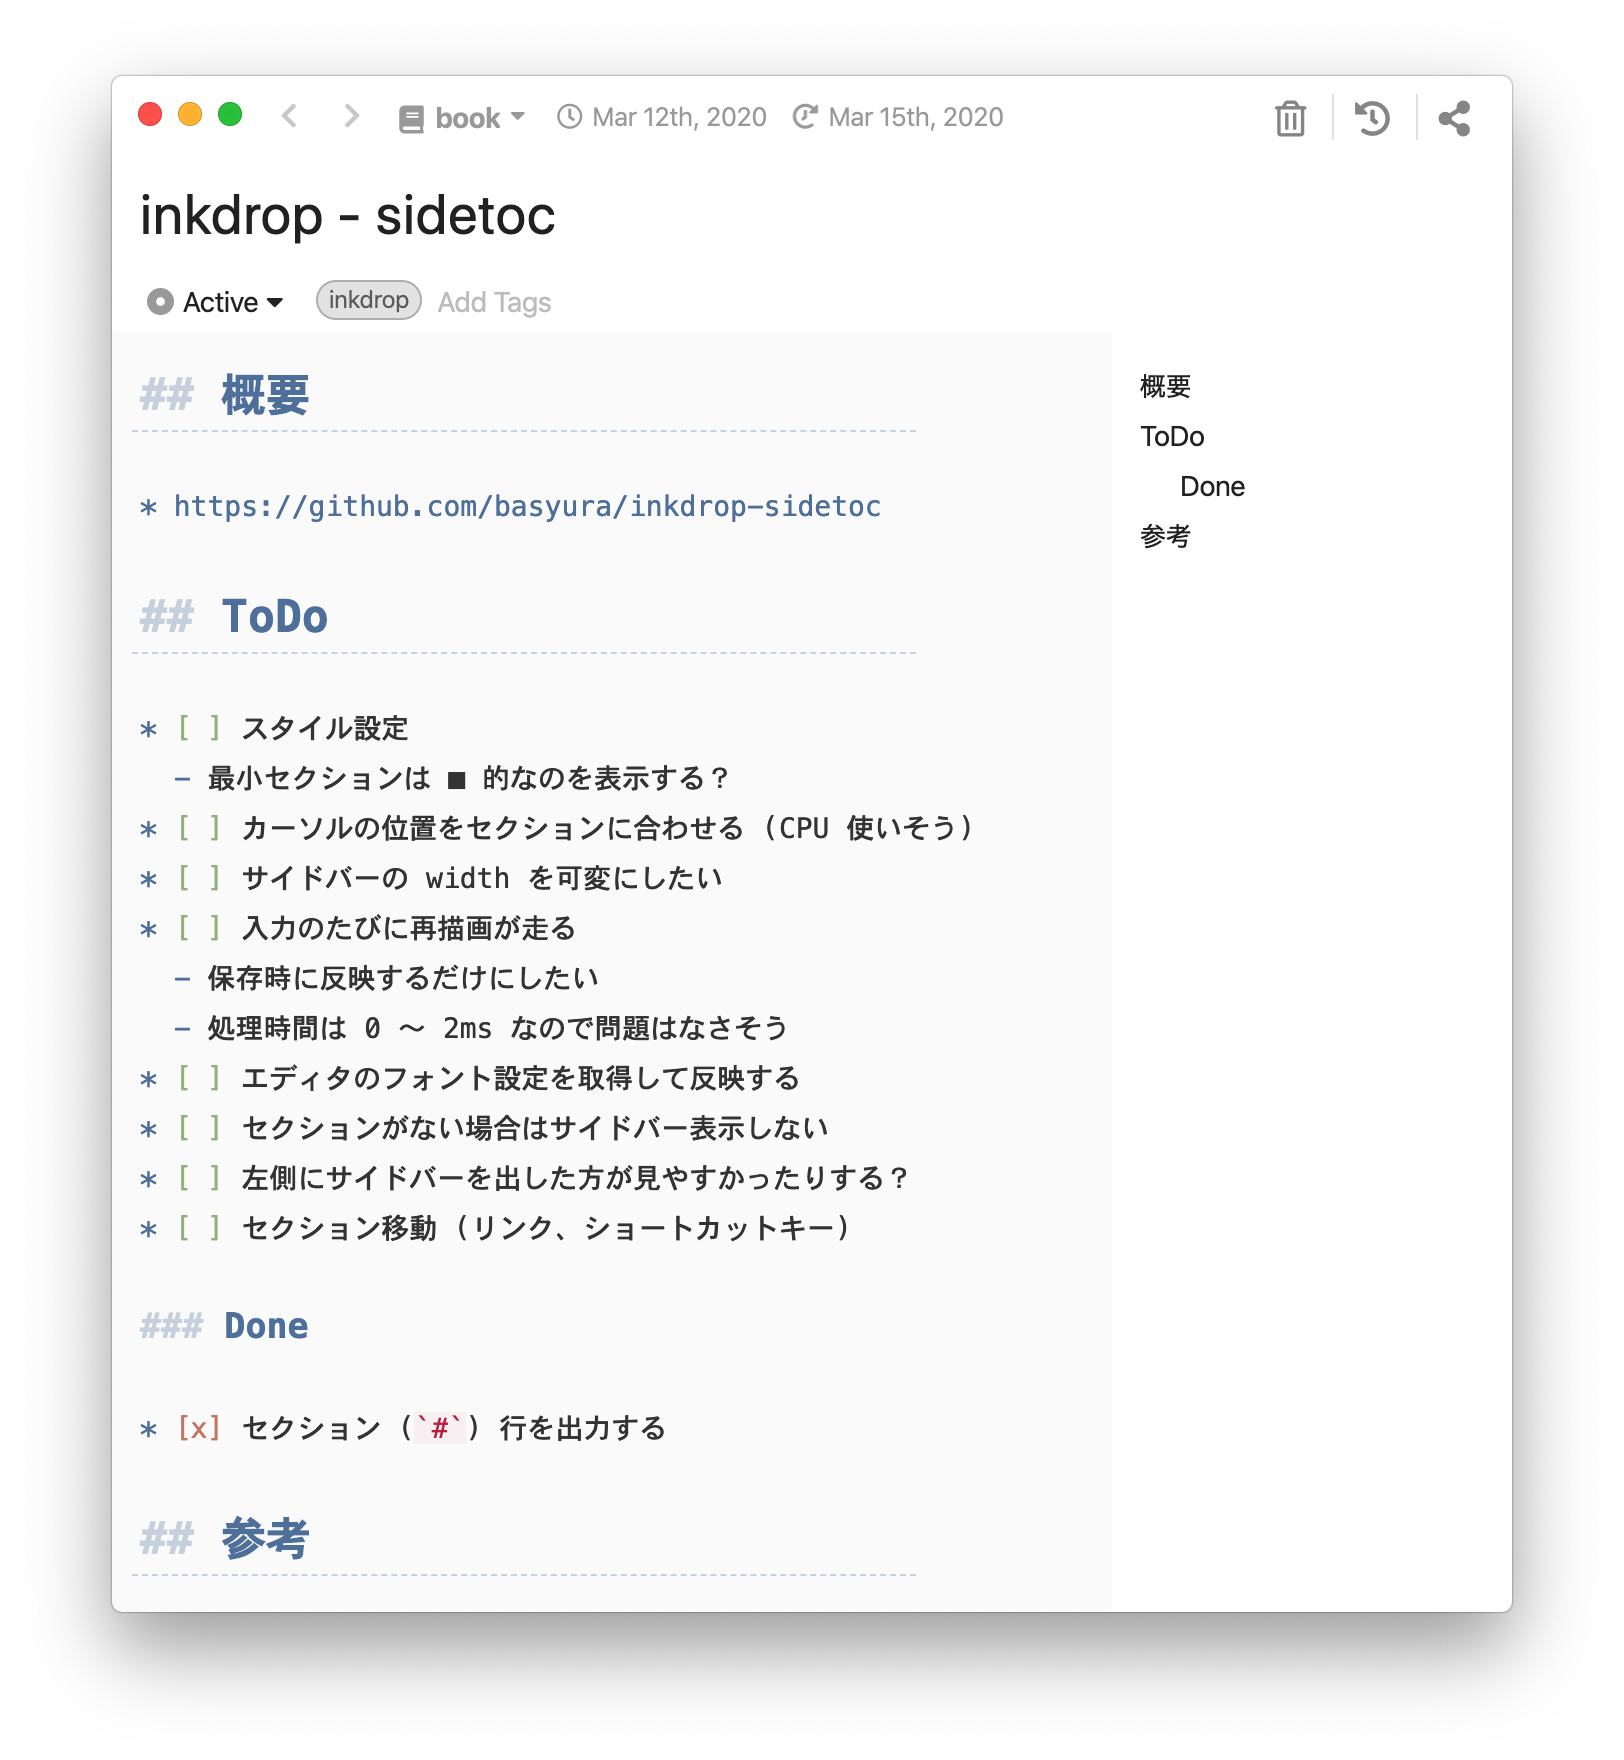
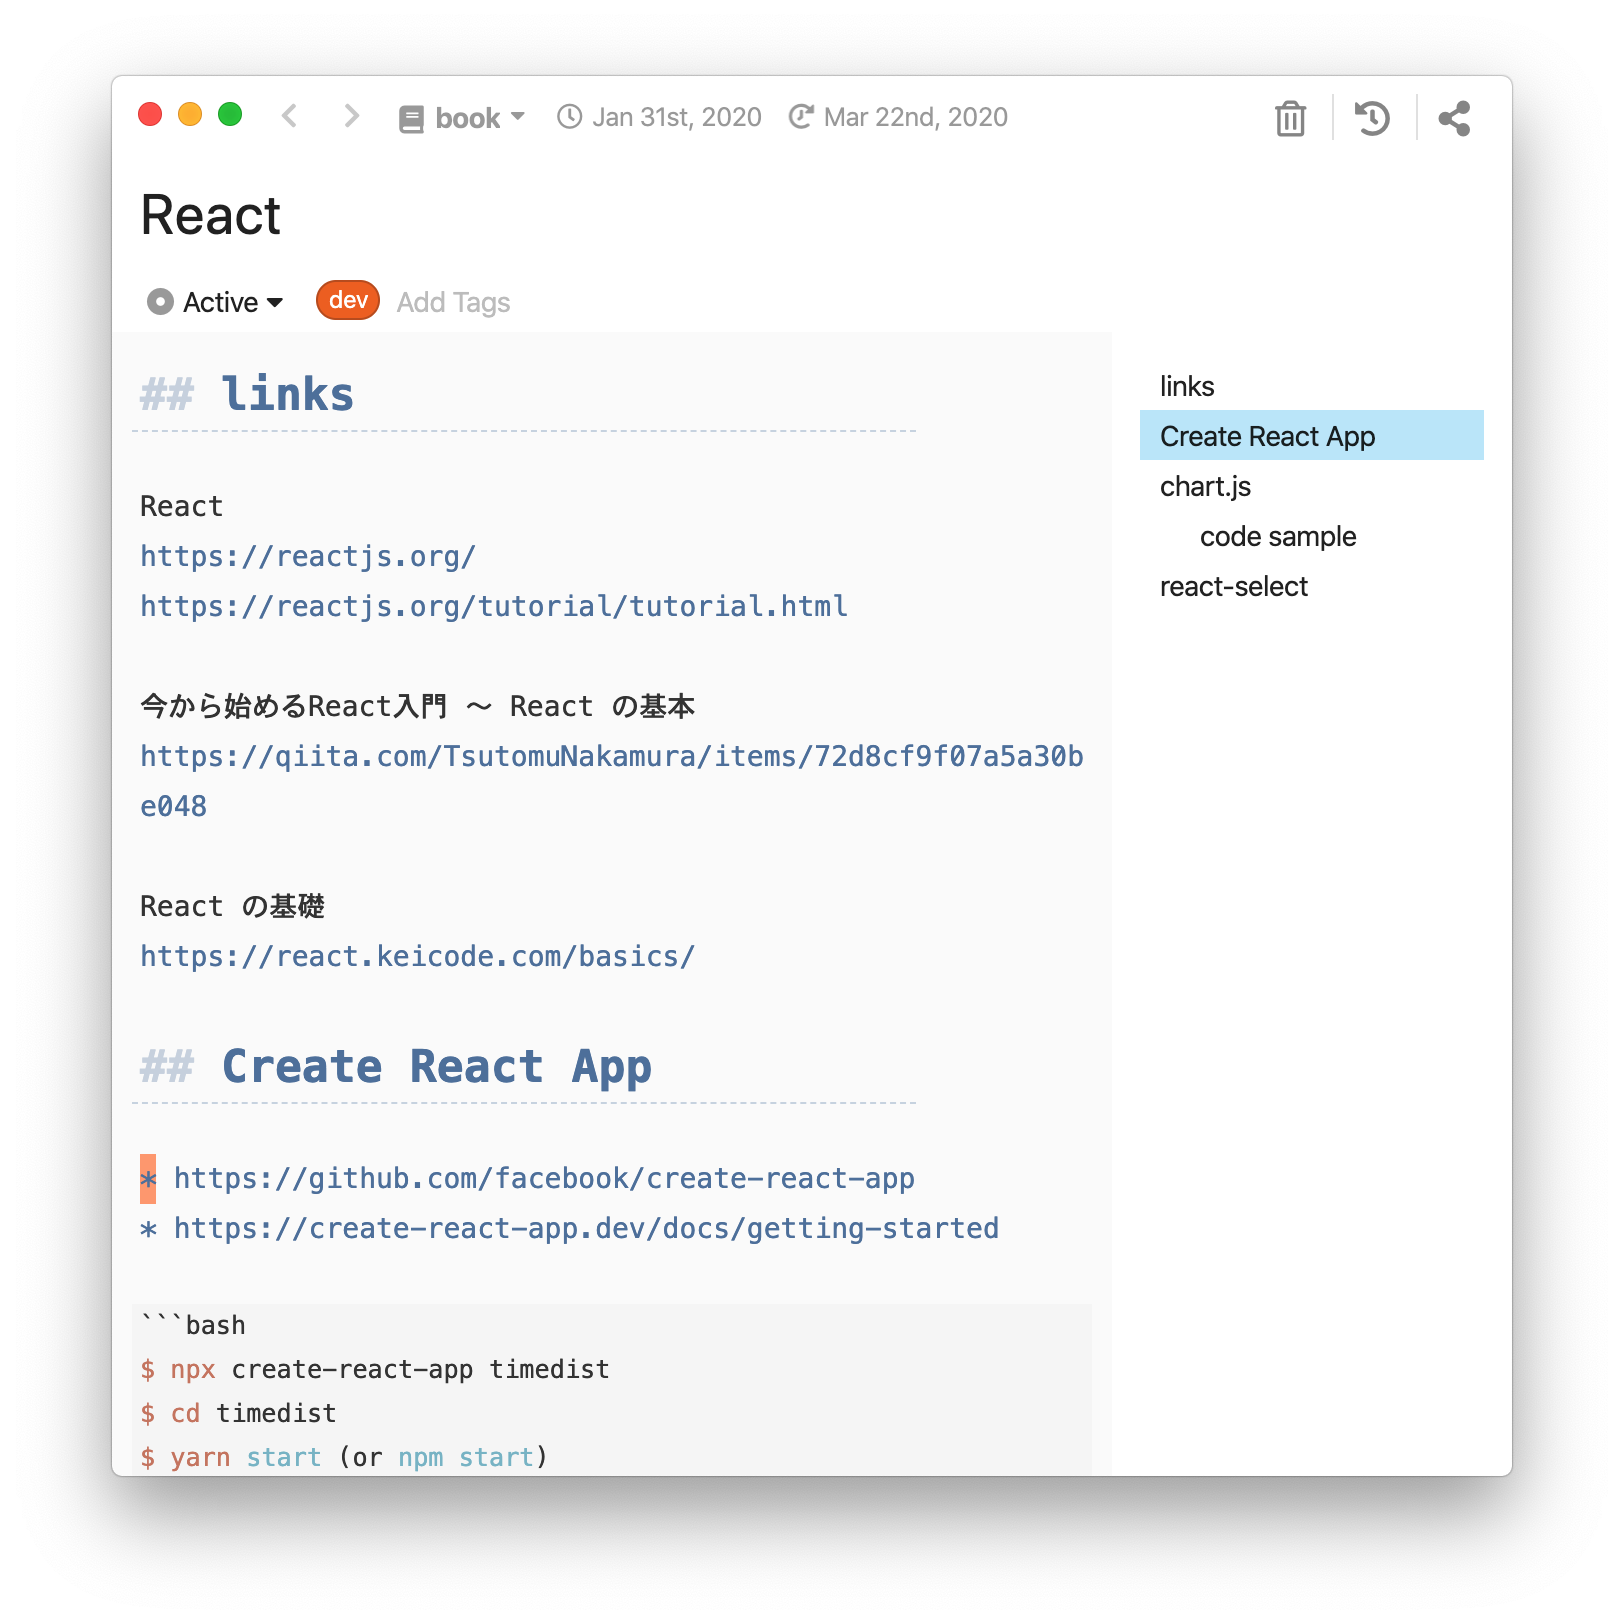
カーソル位置のセクション背景を変える

diff --git a/lib/sidetoc-pane.js b/lib/sidetoc-pane.js
@@ -2,38 +2,117 @@
 
 import * as React from 'react'
 
-export default function SideTocPane(props) {
-  // section list which starting with #.
-  let headers = []
-  // minimum section level
-  let min = 999
-  props.editingNote.body.split("\n").forEach(v => {
-    // check
-    if (!isValid(v)) {
+export default class SideTocPane extends React.Component {
+
+  componentWillMount () {
+    //console.log("componentWillMount start")
+
+    this.updateState()
+
+    inkdrop.onEditorLoad(editor => {
+        //console.log("onEditorLoad")
+        this.updateState();
+        const { cm } = editor;
+        cm.on("cursorActivity", this.handleCursorActivity);
+        cm.on("update", this.handleUpdate);
+    });
+  }
+
+  render() {
+    //console.log("render start")
+    return (
+      <div className="sidetoc-pane">
+        {this.state.headers.map(v => <li style={this.toStyle(v)}>{v.str}</li>)}
+      </div>
+    )
+  }
+
+  updateState = () => {
+    //console.log("updateState")
+
+    let [headers, min] =  this.extractHeaders(this.props)
+    let len = this.props.editingNote.body.length
+    //console.log("headers:", headers)
+    //console.log("min:", min)
+    this.setState({headers: headers, min: min, len: len})
+  }
+
+  handleUpdate = _ => {
+    //console.log("★ handleUpdate:", this.state.len, this.props.editingNote.body.length)
+    if (this.state.len == this.props.editingNote.body.length) {
       return
     }
-    // count of #
-    let i = 0
-    for (; i < v.length; i++) {
-      if (v[i] != "#") {
+    this.updateState();
+  }
+
+  handleCursorActivity = editor => {
+    let cur = editor.getCursor()
+    //console.log(cur.line);
+    //this.setState({ cursorline:cur.line })
+    let len = this.state.headers.length;
+    for (let i = 0; i < len; i++) {
+      let header = this.state.headers[i];
+      if (cur.line >= header.rowStart && cur.line <= header.rowEnd) {
+        if (this.state.currentSection != header.str) {
+          this.setState({ currentSection: header.str})
+        }
+        //console.log(header.str)
         break
       }
     }
-    // cache header item
-    headers.push({ count: i, str: v.replace(/^#*? /, "") })
-    if (i < min) {
-      min = i
+  };
+
+  extractHeaders = (props) => {
+    // section list which starting with #.
+    let headers = []
+    // minimum section level
+    let min = 999
+    let row = -1
+    let before = null
+    props.editingNote.body.split("\n").forEach(v => {
+      row++
+      // check
+      if (!isValid(v)) {
+        return
+      }
+      // count of #
+      let i = 0
+      for (; i < v.length; i++) {
+        if (v[i] != "#") {
+          break
+        }
+      }
+      // create header item
+      let header = { count: i, str: v.replace(/^#*? /, ""), rowStart: row }
+      // apply header end row
+      if (before != null) {
+        before.rowEnd = row - 1
+      }
+      before = header
+      headers.push(header)
+      if (i < min) {
+        min = i
+      }
+    })
+  
+    if (headers.length != 0) {
+      headers[headers.length - 1].rowEnd = row
     }
-  })
-  // render component
-  return (
-    <div className="sidetoc-pane">
-      {headers.map((v) => <li style={{ marginLeft: 20 * (v.count - min) }}>{v.str}</li>)}
-    </div>
-  )
+
+    return [headers, min]
+  }
+
+  toStyle = (header) => {
+    let style = { marginLeft: 20 * (header.count - this.state.min) };
+    if (this.state.currentSection == header.str) {
+      style.backgroundColor = "#C5EAFB"
+    }
+
+    return style;
+  }
 }
 
-export const componentName = SideTocPane.name
+export const componentName = "SideTocPane";
 
 const layoutName = 'mde'
 

diff --git a/lib/sidetoc.js b/lib/sidetoc.js
@@ -1,29 +1,29 @@
-'use babel'
+"use babel";
 
-import { CompositeDisposable } from 'event-kit'
-import * as SideTocPane from './sidetoc-pane'
+import { CompositeDisposable } from "event-kit";
+import * as SideTocPane from "./sidetoc-pane";
 
 class SideTocPlugin {
-  subscriptions = new CompositeDisposable()
+  subscriptions = new CompositeDisposable();
 
   activate() {
-    const { components, commands } = inkdrop
-    components.registerClass(SideTocPane.default)
-    SideTocPane.show()
+    const { components, commands } = inkdrop;
+    components.registerClass(SideTocPane.default);
+    SideTocPane.show();
 
     this.subscriptions.add(
       commands.add(document.body, {
-        'sidetoc:toggle-sidetoc': SideTocPane.toggle
+        "sidetoc:toggle-sidetoc": SideTocPane.toggle
       })
-    )
+    );
   }
 
   deactivate() {
-    const { components } = inkdrop
+    const { components } = inkdrop;
 
-    this.subscriptions.dispose()
-    components.deleteClass(SideTocPane.default)
+    this.subscriptions.dispose();
+    components.deleteClass(SideTocPane);
   }
 }
 
-module.exports = new SideTocPlugin()
+module.exports = new SideTocPlugin();

diff --git a/styles/sidetoc.less b/styles/sidetoc.less
@@ -4,6 +4,7 @@
   min-width:200px;
   max-width: 200px;
   li {
+    padding-left: 10px;
     line-height: 180%;
     list-style: none;
   }

diff --git a/README.md b/README.md
@@ -7,7 +7,6 @@
 
 * [ ] スタイル設定
   - 最小セクションは ■ 的なのを表示する？
-* [ ] カーソルの位置をセクションに合わせる (CPU 使いそう)
 * [ ] サイドバーの width を可変にしたい
 * [ ] 入力のたびに再描画が走る
   - 保存時に反映するだけにしたい
@@ -20,3 +19,4 @@
 ### Done
   
 * [x] セクション (`#`) 行を出力する
+* [x] カーソルの位置をセクションに合わせる (CPU 使いそう)
